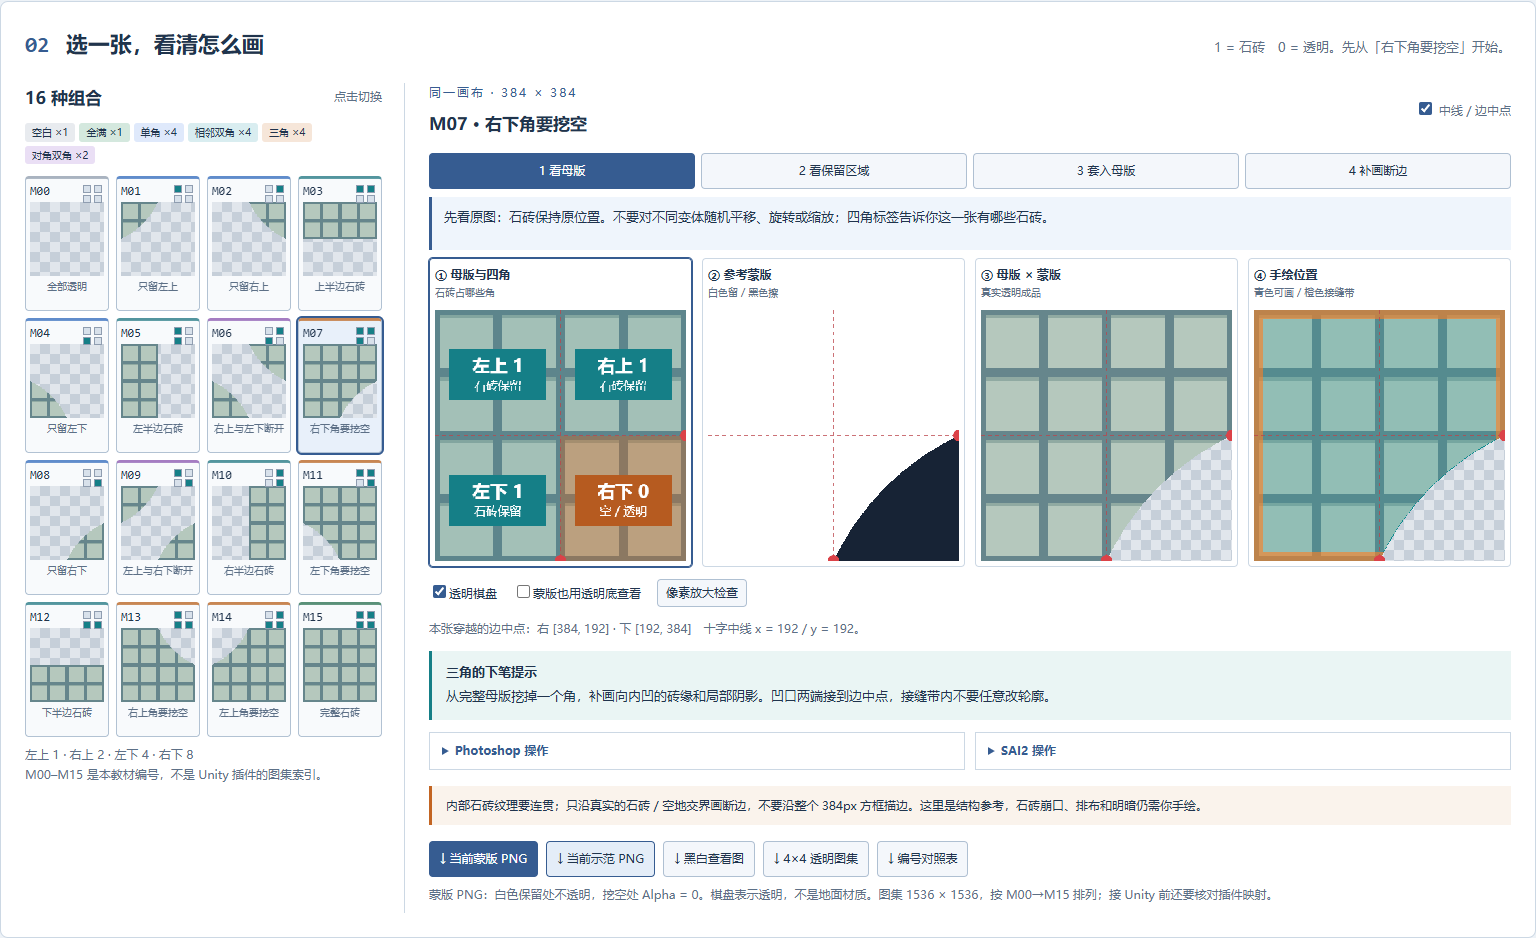
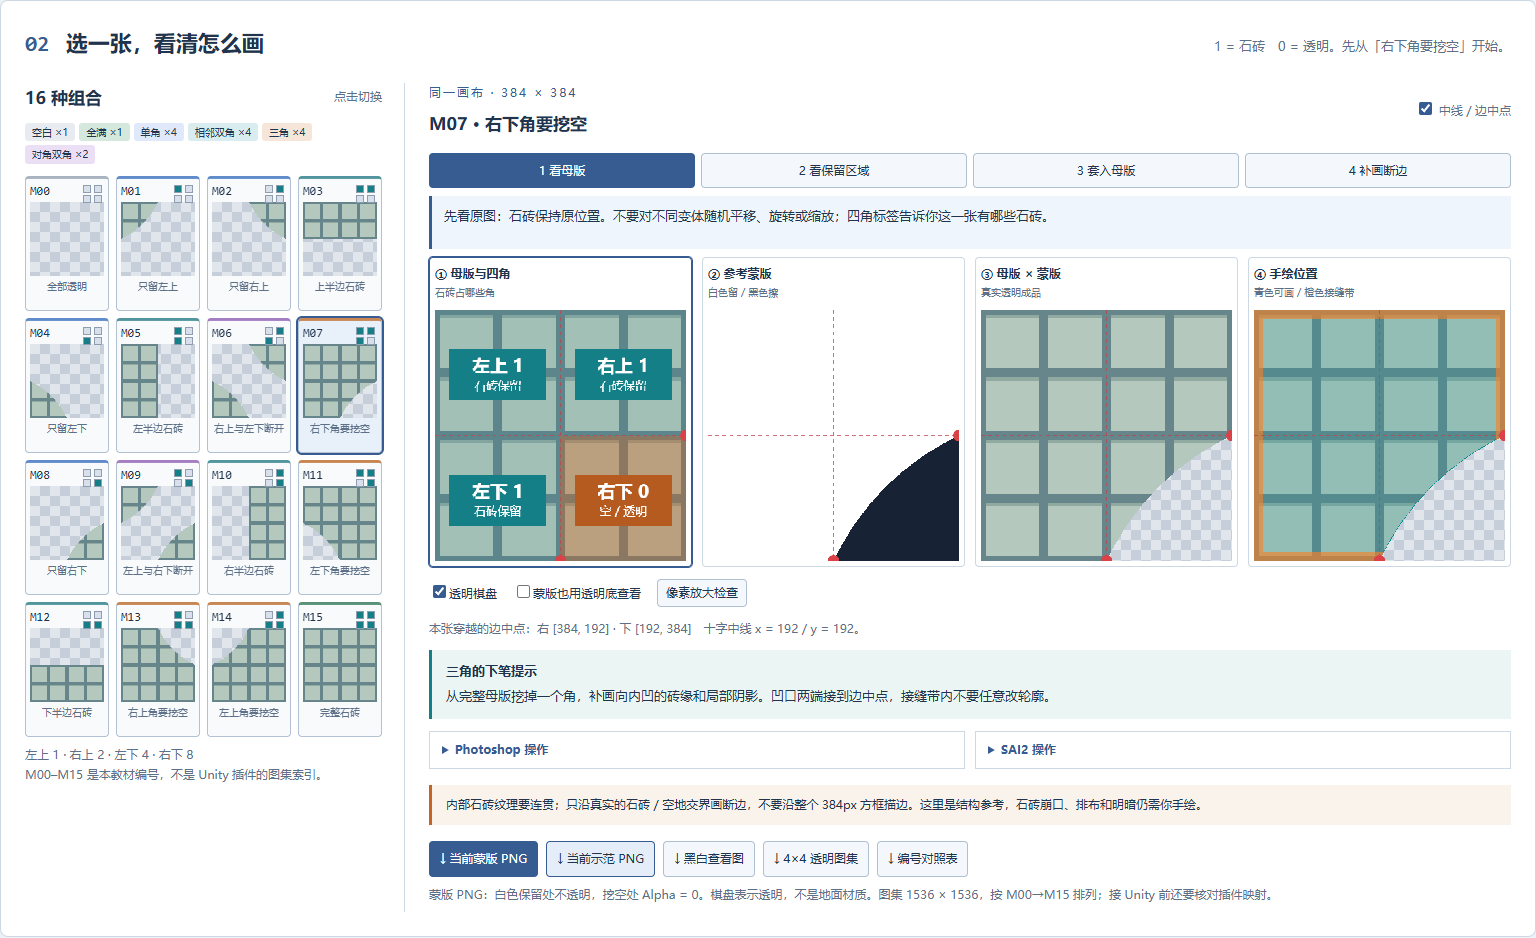
feat: teach dual-grid atlas layout from reference template

diff --git a/tools/dualgrid-visual-tutorial/index.html b/tools/dualgrid-visual-tutorial/index.html
@@ -2,7 +2,7 @@
 <html lang="zh-CN">
 <head><meta charset="utf-8"><meta name="viewport" content="width=device-width,initial-scale=1"><title>双网格手绘课 · 星骸回廊</title><link rel="stylesheet" href="style.css"></head>
 <body>
-<header><a class="brand" href="#lesson">▦ <span>星骸回廊 / 手绘工作台</span></a><nav aria-label="教程导航"><a href="#sourceSection">检查母版</a><a href="#lesson">16 种画法</a><a href="#mapSection">地图预览</a></nav><span class="local">本地运行 · 图片不上传</span></header>
+<header><a class="brand" href="#templateSection">▦ <span>星骸回廊 / 手绘工作台</span></a><nav aria-label="教程导航"><a href="#sourceSection">检查母版</a><a href="#templateSection">整版模板</a><a href="#lesson">16 种画法</a><a href="#mapSection">地图预览</a></nav><span class="local">本地运行 · 图片不上传</span></header>
 <main>
 <div class="intro"><div><p class="eyebrow">一张母版，学会画出能拼接的边缘</p><h1>双网格手绘课</h1><p>先看该留哪里、该擦哪里，再涂几笔验证拼接。<br>你的石砖始终待在原位置，变化的是它的轮廓。</p></div><div class="mini-lesson"><span>1 张母版</span><b>→</b><span>16 种轮廓</span><b>→</b><span>一张完整地图</span><small>先用几何示例学会流程，也可以随时导入自己的画。</small></div></div>
 
@@ -14,6 +14,20 @@
 <figure class="repeat-figure"><figcaption>3 × 3 重复铺设 <small>看每条红线两侧</small></figcaption><div class="repeat-scroll"><canvas id="repeat" width="1152" height="1152" class="checker" aria-label="母版九宫格平铺"></canvas></div><div class="toolbar"><label><input id="seamLines" type="checkbox" checked>显示接缝线</label><label>放大 <select id="zoom"><option value="fit">适应窗口</option><option value="1">100% 像素</option><option value="2">200% 像素</option></select></label></div></figure>
 </div>
 <p class="note">母版自己要先无缝。16 种变体无法修复原图四边不连续；红线只是帮你定位拼缝，不会出现在下载的图片里。</p>
+</section>
+
+<section id="templateSection">
+<div class="section-heading"><h2>看懂你截图里的整版模板</h2><p>4 × 4 个素材槽位，每格再看左上 / 右上 / 左下 / 右下。</p></div>
+<p>这张绿色图切成 16 格后，恰好包含全部 16 种四角组合。绿色是保留区域，灰色棋盘表示透明。点击一格，下方就会显示对应的画法。</p>
+<div class="template-layout">
+<figure><figcaption><b>截图对应的占用模板</b><small>保留原图排列 · 可点击</small></figcaption><div class="template-stack checker"><canvas id="templateShape" width="512" height="512" aria-label="按用户截图重建的16格绿色占用模板"></canvas><div id="templateOverlay" class="template-overlay"></div></div></figure>
+<figure><figcaption><b>把母版放入同样的 16 个槽位</b><small>每格母版位置相同</small></figcaption><div class="template-stack checker"><canvas id="templateTexture" width="512" height="512" aria-label="按截图槽位套入母版的图集"></canvas><canvas id="templateTextureGuide" width="512" height="512" class="overlay"></canvas></div></figure>
+<div class="template-instructions"><h3>先分清两种线</h3><p><b>粗线：</b>素材切格线，每格是一张 384 × 384。</p><p><b>细虚线：</b>这一格的四角分区，中线在 192 像素。</p><p>如果每格是 384 像素，整张模板就是 <b>1536 × 1536</b>。截图没有切格线时，看起来像一块连续绿地；绘制时要逐格辨认它的四角。</p><p><b>从哪里下笔？</b>把母版复制到每个槽位，保持相同局部坐标；先按绿色区域留出轮廓，再手绘真实石砖断边。</p><p>直角块说明占用范围。手绘边缘可在同样四角状态下弯曲、做崩口；接到画布边时仍要遵守同一接缝。</p><a class="button" href="#lesson">查看选中格的四步画法 ↓</a></div>
+</div>
+<div class="toolbar"><label><input id="templateLines" type="checkbox" checked>显示切格线 / 四角分区</label><label><input id="templateLabels" type="checkbox" checked>显示教材编号</label><label><input id="templateSmooth" type="checkbox">右图改看平滑轮廓示范</label></div>
+<p id="templateSelection" class="draw-tip" aria-live="polite"></p>
+<div class="exports"><button id="exportTemplate" class="primary">↓ 截图布局透明占用模板</button><button id="exportTemplateTexture">↓ 截图布局母版示范图集</button><button id="exportTemplateTable">↓ 截图布局编号对照表</button></div>
+<p class="fine">这里按你提供的截图逐格重建排列。教材编号用于对照；下方原有 M00→M15 图集采用另一种排列。接 Unity 时，应以实际插件的槽位规则为准。</p>
 </section>
 
 <section id="lesson">
@@ -48,5 +62,5 @@
 <footer>打开 → 导入 → 看蒙版 → 涂地图 → 下载参考 → 去 SAI2 / PS 手绘</footer>
 </main>
 <dialog id="inspector"><div class="dialog-heading"><h3>像素检查 · 同坐标放大</h3><button id="closeInspector">关闭</button></div><p>滚动看细节。红色辅助线用于定位，下载不含辅助线。</p><label>放大 <select id="inspectZoom"><option value="1">100%</option><option value="2" selected>200%</option><option value="4">400%</option></select></label><div class="pixel-scroll checker"><canvas id="inspectCanvas" width="384" height="384"></canvas></div></dialog>
-<script src="core.js"></script><script src="app.js"></script>
+<script src="core.js"></script><script src="template.js"></script><script src="app.js"></script>
 </body></html>

diff --git a/tools/dualgrid-visual-tutorial/template.js b/tools/dualgrid-visual-tutorial/template.js
@@ -1,0 +1,49 @@
+/* 截图逐格读取所得，不把该排列声明为任意插件的通用索引。 */
+(()=>{
+ 'use strict';
+ const $=id=>document.getElementById(id);
+ const slots=[4,10,13,12,9,14,15,7,2,3,11,5,0,8,6,1];
+ let current=7,tiles=[],source=null,names=[];
+ const idOf=m=>'M'+String(m).padStart(2,'0');
+ function shape(m,size,color){
+  const c=document.createElement('canvas');c.width=c.height=size;const g=c.getContext('2d');g.fillStyle=color;
+  for(const [x,y,bit] of [[0,0,1],[1,0,2],[0,1,4],[1,1,8]])if(m&bit)g.fillRect(x*size/2,y*size/2,size/2,size/2);
+  return c;
+ }
+ function atlas(size,textured){
+  const c=document.createElement('canvas');c.width=c.height=size;const g=c.getContext('2d'),s=size/4;g.imageSmoothingEnabled=false;
+  slots.forEach((m,i)=>{
+   let tile;
+   if(!textured)tile=shape(m,s,'#29b52b');
+   else if($('templateSmooth').checked)tile=tiles[m];
+   else{tile=shape(m,s,'#fff');const t=tile.getContext('2d');t.globalCompositeOperation='source-in';t.drawImage(source,0,0,s,s);}
+   g.drawImage(tile,i%4*s,Math.floor(i/4)*s,s,s);
+  });return c;
+ }
+ function drawGuides(){
+  const c=$('templateTextureGuide'),g=c.getContext('2d'),s=c.width/4;g.clearRect(0,0,c.width,c.height);
+  if($('templateLines').checked){g.strokeStyle='#284b7190';g.lineWidth=1;g.setLineDash([4,4]);g.beginPath();for(let i=0;i<4;i++){g.moveTo((i+.5)*s,0);g.lineTo((i+.5)*s,c.height);g.moveTo(0,(i+.5)*s);g.lineTo(c.width,(i+.5)*s);}g.stroke();g.setLineDash([]);g.strokeStyle='#20344d';g.lineWidth=2;g.beginPath();for(let i=0;i<=4;i++){g.moveTo(i*s,0);g.lineTo(i*s,c.height);g.moveTo(0,i*s);g.lineTo(c.width,i*s);}g.stroke();}
+  const k=slots.indexOf(current);g.strokeStyle='#f08d38';g.lineWidth=5;g.strokeRect(k%4*s+3,Math.floor(k/4)*s+3,s-6,s-6);
+ }
+ function render(){
+  if(!source)return;
+  for(const [id,tex]of [['templateShape',false],['templateTexture',true]]){const c=$(id),g=c.getContext('2d');g.clearRect(0,0,c.width,c.height);g.drawImage(atlas(c.width,tex),0,0);}
+  const host=$('templateOverlay');host.replaceChildren();host.classList.toggle('cut-lines',$('templateLines').checked);
+  slots.forEach((m,i)=>{const b=document.createElement('button'),row=Math.floor(i/4)+1,col=i%4+1;
+   b.setAttribute('aria-label',`模板第${row}行${col}列，${names[m]}`);b.setAttribute('aria-pressed',m===current);b.className=m===current?'selected':'';
+   if($('templateLabels').checked)b.textContent=idOf(m);
+   b.title=`第${row}行第${col}列：${idOf(m)} ${names[m]}`;
+   b.onclick=()=>window.dispatchEvent(new CustomEvent('template-select',{detail:m}));host.append(b);
+  });
+  const k=slots.indexOf(current);$('templateSelection').textContent=`选中：第 ${Math.floor(k/4)+1} 行 · 第 ${k%4+1} 列 → ${idOf(current)} · ${names[current]}。`+(current===7?' 三个角留石砖，右下角挖空；这正是下方默认教学的那一张。':' 点击下方四步按钮，查看这格的保留区域与手绘位置。');drawGuides();
+ }
+ function download(c,name){c.toBlob(blob=>{if(!blob)return;const url=URL.createObjectURL(blob),a=document.createElement('a');a.href=url;a.download=name;a.click();setTimeout(()=>URL.revokeObjectURL(url),1000);},'image/png');}
+ for(const id of ['templateLines','templateLabels','templateSmooth'])$(id).onchange=render;
+ $('exportTemplate').onclick=()=>download(atlas(1536,false),'截图布局-透明占用模板-1536.png');
+ $('exportTemplateTexture').onclick=()=>download(atlas(1536,true),`截图布局-${$('templateSmooth').checked?'平滑':'直角'}-母版示范-1536.png`);
+ $('exportTemplateTable').onclick=()=>{
+  const rows=['槽位0起,行1起,列1起,教材编号,名称,左上1,右上2,左下4,右下8',...slots.map((m,i)=>[i,Math.floor(i/4)+1,i%4+1,idOf(m),names[m],...[1,2,4,8].map(b=>m&b?1:0)].join(','))];
+  const blob=new Blob(['\uFEFF'+rows.join('\r\n')],{type:'text/csv;charset=utf-8'}),url=URL.createObjectURL(blob),a=document.createElement('a');a.href=url;a.download='截图布局-槽位对照.csv';a.click();setTimeout(()=>URL.revokeObjectURL(url),1000);
+ };
+ window.TemplateLesson={update(m,t,s,n){current=m;tiles=t;source=s;names=n;render();}};
+})();

diff --git a/tools/dualgrid-visual-tutorial/style.css b/tools/dualgrid-visual-tutorial/style.css
@@ -4,3 +4,4 @@
 @media(max-width:1200px){.lesson-layout{grid-template-columns:300px minmax(0,1fr)}.four-panels{grid-template-columns:repeat(2,minmax(0,1fr))}.source-layout{gap:16px}.map-toolbar{gap:10px}.mini-lesson{max-width:360px;gap:8px}.mini-lesson span{font-size:16px}}
 @media(max-width:760px){header{padding:10px 16px;flex-wrap:wrap;gap:7px}header .local{display:none}nav{gap:16px;font-size:12px}main{padding:0 12px}.intro{padding:24px 6px;display:block}h1{font-size:36px}.mini-lesson{margin-top:15px}.source-layout{grid-template-columns:1fr 1fr}.dropzone{grid-column:1/-1}.repeat-scroll{height:auto;aspect-ratio:1}.section-heading{display:block}.section-heading p{margin-top:5px}section{padding:14px}.lesson-layout{grid-template-columns:1fr}.gallery-panel{border-right:0;border-bottom:1px solid var(--line);padding:0 0 14px}.gallery small{min-height:0}.gallery canvas{max-height:96px;object-fit:contain}.variant-heading{align-items:flex-start;flex-wrap:wrap}.variant-heading h3{font-size:19px}.four-panels{gap:8px}.editor-notes{grid-template-columns:1fr}.map-layout{grid-template-columns:1fr;gap:8px}.map-arrow{font-size:20px}.map-arrow small{display:inline;padding-left:8px}.map-explanation{grid-template-columns:1fr;gap:0}figcaption{flex-wrap:wrap}.step-text{min-height:78px}.steps button{flex-basis:42%}.exports button{flex-grow:1}.source-layout figure>canvas{max-height:none}}
 @media(prefers-reduced-motion:reduce){html{scroll-behavior:auto}}
+.template-layout{display:grid;grid-template-columns:minmax(0,1fr) minmax(0,1fr) minmax(230px,.9fr);gap:24px;margin:20px 0}.template-stack{position:relative;aspect-ratio:1;background-size:25% 25%}.template-stack canvas{width:100%;height:100%}.template-overlay{position:absolute;inset:0;display:grid;grid-template-columns:repeat(4,1fr)}.template-overlay button{position:relative;background:transparent;border:0;border-radius:0;padding:6px;color:#fff;font:bold 12px Consolas,monospace;text-align:left;display:flex;align-items:flex-start;justify-content:flex-start;text-shadow:0 1px 3px #000,0 0 4px #000}.template-overlay button:hover{background:#fff2}.template-overlay.cut-lines button{outline:1px solid #20344d;outline-offset:-1px}.template-overlay.cut-lines button::before,.template-overlay.cut-lines button::after{content:'';position:absolute;pointer-events:none}.template-overlay.cut-lines button::before{left:50%;top:0;height:100%;border-left:1px dashed #284b7190}.template-overlay.cut-lines button::after{left:0;top:50%;width:100%;border-top:1px dashed #284b7190}.template-overlay button.selected{box-shadow:inset 0 0 0 4px #f08d38}.template-instructions{font-size:13px}.template-instructions h3{margin-bottom:12px}.template-instructions .button{display:inline-block;margin-top:12px}.template-instructions p{margin-bottom:12px}@media(max-width:1100px){.template-layout{grid-template-columns:1fr 1fr}.template-instructions{grid-column:1/-1}.template-instructions p{margin:8px 0}}@media(max-width:550px){.template-layout{grid-template-columns:1fr;gap:16px}.template-instructions{grid-column:auto}.template-overlay button{font-size:11px}}

diff --git a/tools/dualgrid-visual-tutorial/app.js b/tools/dualgrid-visual-tutorial/app.js
@@ -102,6 +102,7 @@
   const tint=makeCanvas();tint.getContext('2d').putImageData(overlay,0,0);g.drawImage(tint,0,0);
  }
  function showVariant(){
+  TemplateLesson.update(selected,tiles,source,names);
   $('variantTitle').textContent=`${idOf(selected)} · ${names[selected]}`;
   document.querySelectorAll('#gallery button').forEach(b=>{const on=Number(b.dataset.mask)===selected;b.classList.toggle('selected',on);b.setAttribute('aria-pressed',on);});
   $('stepText').textContent=stepTexts[step];
@@ -186,6 +187,7 @@
  const drop=$('dropzone');drop.ondragover=e=>{e.preventDefault();drop.classList.add('drag');};drop.ondragleave=()=>drop.classList.remove('drag');drop.ondrop=e=>{e.preventDefault();drop.classList.remove('drag');loadFile(e.dataTransfer.files[0]);};
  $('seamLines').onchange=drawRepeat;$('zoom').onchange=drawRepeat;
  $('steps').onclick=e=>{const b=e.target.closest('[data-step]');if(b){step=Number(b.dataset.step);showVariant();}};
+ window.addEventListener('template-select',e=>{selected=e.detail;showVariant();});
  $('guides').onchange=showVariant;$('maskTransparent').onchange=drawMask;
  $('checkerToggle').onchange=()=>document.body.classList.toggle('no-checker',!$('checkerToggle').checked);
  $('inspect').onclick=()=>{$('inspector').showModal();drawInspect();};$('closeInspector').onclick=()=>$('inspector').close();$('inspectZoom').onchange=drawInspect;

diff --git a/docs/tasks/DUALGRID-TUTORIAL-01.md b/docs/tasks/DUALGRID-TUTORIAL-01.md
@@ -42,3 +42,13 @@
 必要功能均实现。本轮未制作用户最终石砖美术，未实际操作PS/SAI2，未核对具体Unity插件槽位/联调；可选16张批量独立PNG未提供，当前图与4×4图集可用。用户实际母版与手绘体验待用户试用，不冒称人工验收。
 
 按根AGENTS长期授权仅选择性提交本轮文件及共享记录中的本轮块，并推GitHub main；Gitee不推。既有并行共享记录修改保持在工作区，索引从HEAD加本轮块构建，避免混入。最终提交和远端核对在交付回复给出。
+
+## 用户反馈修订：整版模板缺失
+
+2026-10-13 用户提交两张截图，指出目前教学没有体现整版素材模板。作为本轮教学修正直接实施，基准为 b1f5957；使用此前已读技能，bounded范围只扩充现有页面。
+
+看图并读取截图1的8×8象限中心颜色，得到4×4槽位映射：M04/M10/M13/M12、M09/M14/M15/M07、M02/M03/M11/M05、M00/M08/M06/M01。唯一且完整覆盖16态。只按截图重建，不把该排列说成任意Unity插件统一索引；截图2用于确认原教程中的整版画布语境，不从截图推断视频后续步骤。
+
+增加 template.js 与模板教学区：绿色直角占用模板、同排列母版直角套图、平滑对照开关、切格线/四角线/编号开关、模板与单张教学双向选择、1536透明模板/同排列图集/CSV下载。现有核心轮廓、地图和原有顺排导出继续沿用第一轮策略，模板区明确区分两种排列与直角/平滑示意。
+
+`node tools/dualgrid-visual-tutorial/tests/template.cjs` 先因缺少模板区失败，再实现并通过：实际Canvas的64个象限中心对照字面16态期望、M07/M15双向联动、辅助开关、实际透明PNG下载解码（1536×1536与Alpha）、390px布局。原核心5项与原实际Edge file://全流程回归通过。实际新增截图：tools/dualgrid-visual-tutorial/validation/04-截图模板与16态对应.png；透明导出证据：validation/截图布局-透明占用模板.png。没有复制视频/第三方原图到仓库，没有更改游戏/工坊/人工原稿。

diff --git a/记录/项目状态.md b/记录/项目状态.md
@@ -1102,3 +1102,11 @@ EVT-01-LITE技术交付：正式世界原事件预留按钮→异常回响叙述
 结构参考采用二值边缘，对角断开；实际用户手绘、PS/SAI2实机、Unity槽位/联调未验。未改游戏/工坊/原图/人工区/开发细则。按根AGENTS仅本轮选择性GitHub main，保留并行dirty，不Gitee。
 [任务与证据](../docs/tasks/DUALGRID-TUTORIAL-01.md) · [打开教学网页](../tools/dualgrid-visual-tutorial/index.html)。
 <!-- DUALGRID-TUTORIAL-01:end -->
+
+
+<!-- DUALGRID-TUTORIAL-TEMPLATE:begin -->
+## 2026-10-13 双网格教学修正：按截图展示整版模板
+
+用户指出单张教学未体现整版模板。已逐格读取截图，重建4×4完整16态排列；增加整版绿色图/同槽位母版图、切格与四角辅助、双向选择、直角和平滑对照、透明模板/图集/CSV下载。模板第2行4列明确对应M07。
+真实Canvas64象限、选择联动、透明1536PNG下载及390px布局通过；原5项核心与真实浏览器流程回归通过。新截图 validation/04-截图模板与16态对应.png。按本轮范围选择性GitHub main，保留并行记录修改，不Gitee。[任务](../docs/tasks/DUALGRID-TUTORIAL-01.md)。
+<!-- DUALGRID-TUTORIAL-TEMPLATE:end -->

diff --git a/记录/2026-10-13.md b/记录/2026-10-13.md
@@ -35,3 +35,11 @@
 结构参考采用二值边缘，对角断开；实际用户手绘、PS/SAI2实机、Unity槽位/联调未验。未改游戏/工坊/原图/人工区/开发细则。按根AGENTS仅本轮选择性GitHub main，保留并行dirty，不Gitee。
 [任务与证据](../docs/tasks/DUALGRID-TUTORIAL-01.md) · [打开教学网页](../tools/dualgrid-visual-tutorial/index.html)。
 <!-- DUALGRID-TUTORIAL-01:end -->
+
+
+<!-- DUALGRID-TUTORIAL-TEMPLATE:begin -->
+## 2026-10-13 双网格教学修正：按截图展示整版模板
+
+用户指出单张教学未体现整版模板。已逐格读取截图，重建4×4完整16态排列；增加整版绿色图/同槽位母版图、切格与四角辅助、双向选择、直角和平滑对照、透明模板/图集/CSV下载。模板第2行4列明确对应M07。
+真实Canvas64象限、选择联动、透明1536PNG下载及390px布局通过；原5项核心与真实浏览器流程回归通过。新截图 validation/04-截图模板与16态对应.png。按本轮范围选择性GitHub main，保留并行记录修改，不Gitee。[任务](../docs/tasks/DUALGRID-TUTORIAL-01.md)。
+<!-- DUALGRID-TUTORIAL-TEMPLATE:end -->

diff --git a/tools/dualgrid-visual-tutorial/README.md b/tools/dualgrid-visual-tutorial/README.md
@@ -10,4 +10,8 @@
 
 石砖始终保持原坐标，内部纹理继续贯通。只在真实空地交界画断边；接缝不只对齐中点，还要统一整条边的透明度与颜色。棋盘只是透明查看底，不会出现在下载图片里。
 
+网页新增“整版模板”：按用户截图的排列重建绿色占用图。粗线是4×4素材切格，细虚线是每格的四角。点击模板格与下方单张教学双向联动；第2行第4列是默认M07。右侧先按直角模板套入母版，可切换平滑轮廓作对照。下载按钮提供该排列的1536×1536透明绿色模板、同排列母版图集和CSV。模板下载不含棋盘/切格线/编号。
+
+截图槽位从上到下为 `04 10 13 12 / 09 14 15 07 / 02 03 11 05 / 00 08 06 01`，数字为本教材M编号。它与原有M00→M15顺排图集不同；需要哪个排列，就用该区域对应的下载按钮。
+
 对角两片在本教材中断开。M00–M15 是教学编号；4×4 图集从左到右、从上到下排列，尺寸1536×1536。Unity 插件的槽位映射需另行核对。本工具提供结构范例，最终石砖崩口、排布和明暗仍需手绘。
